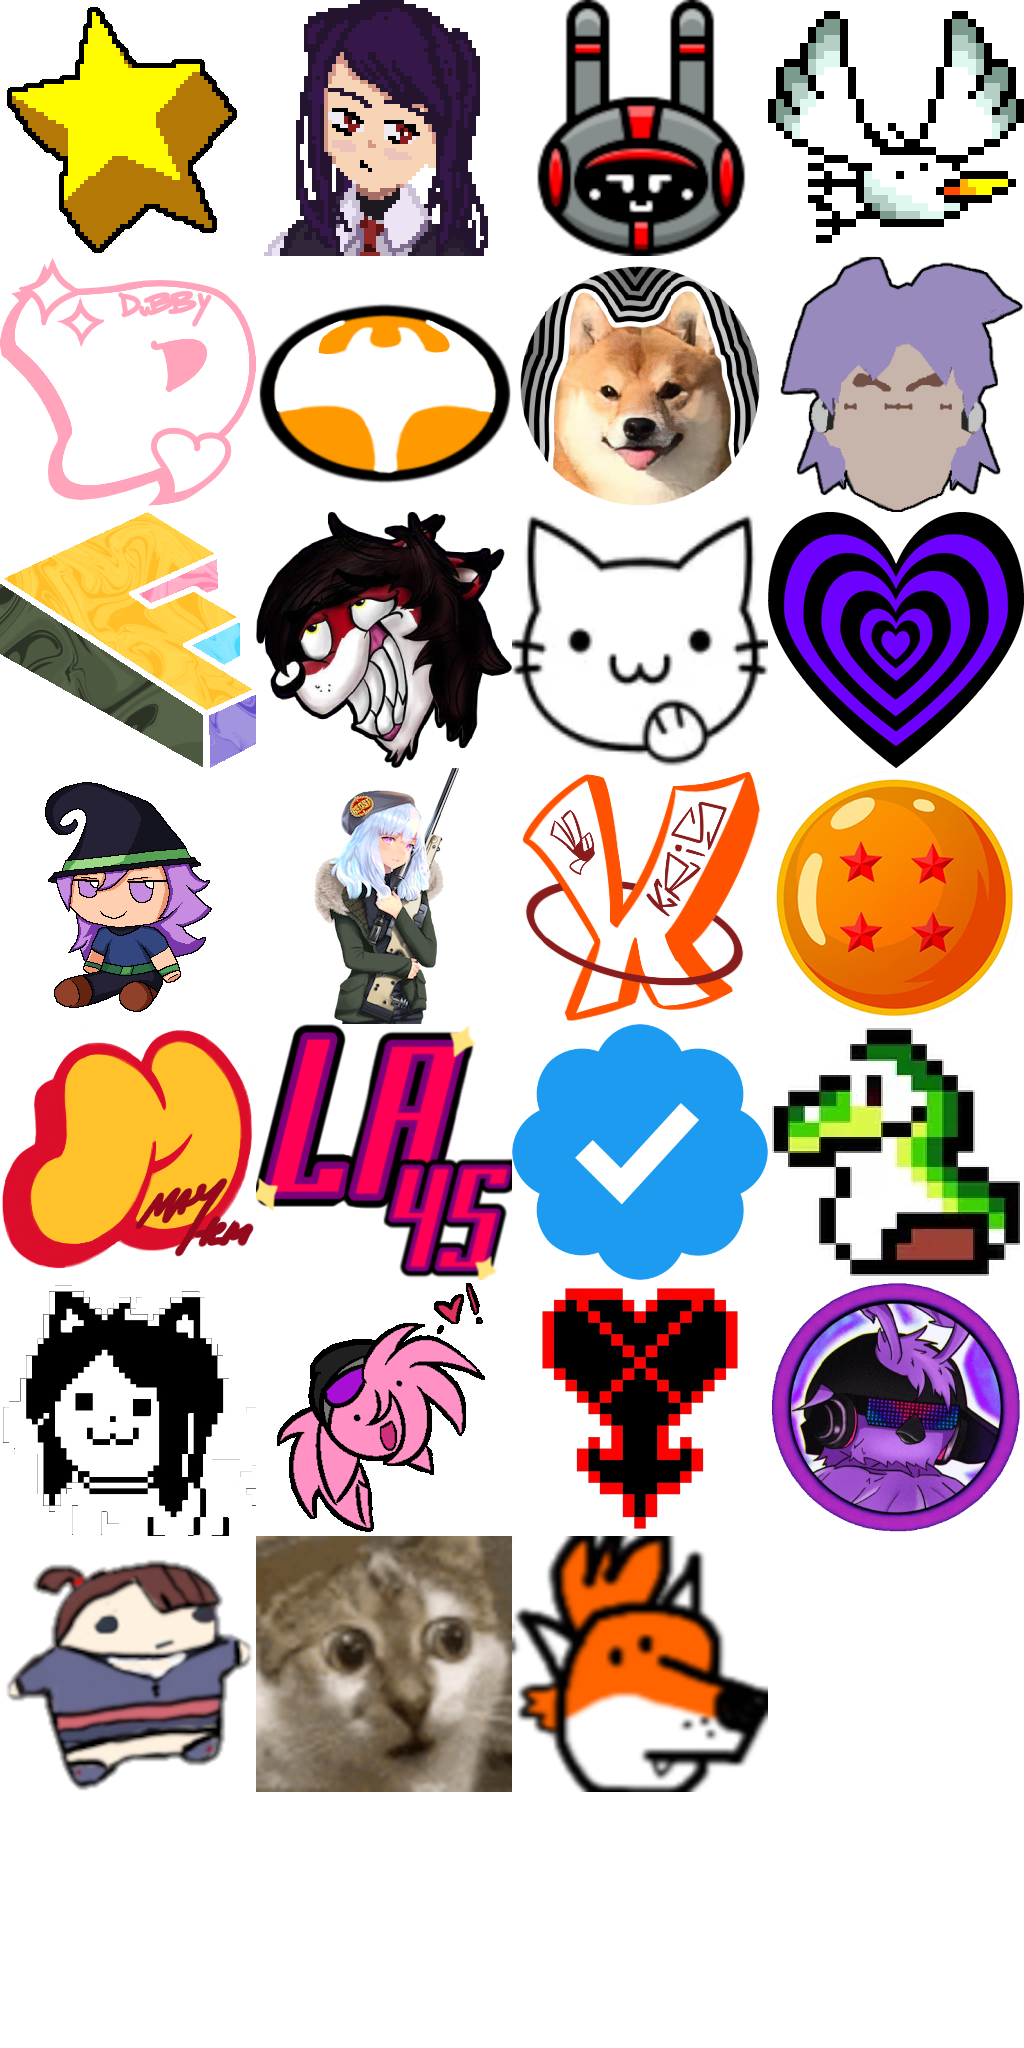
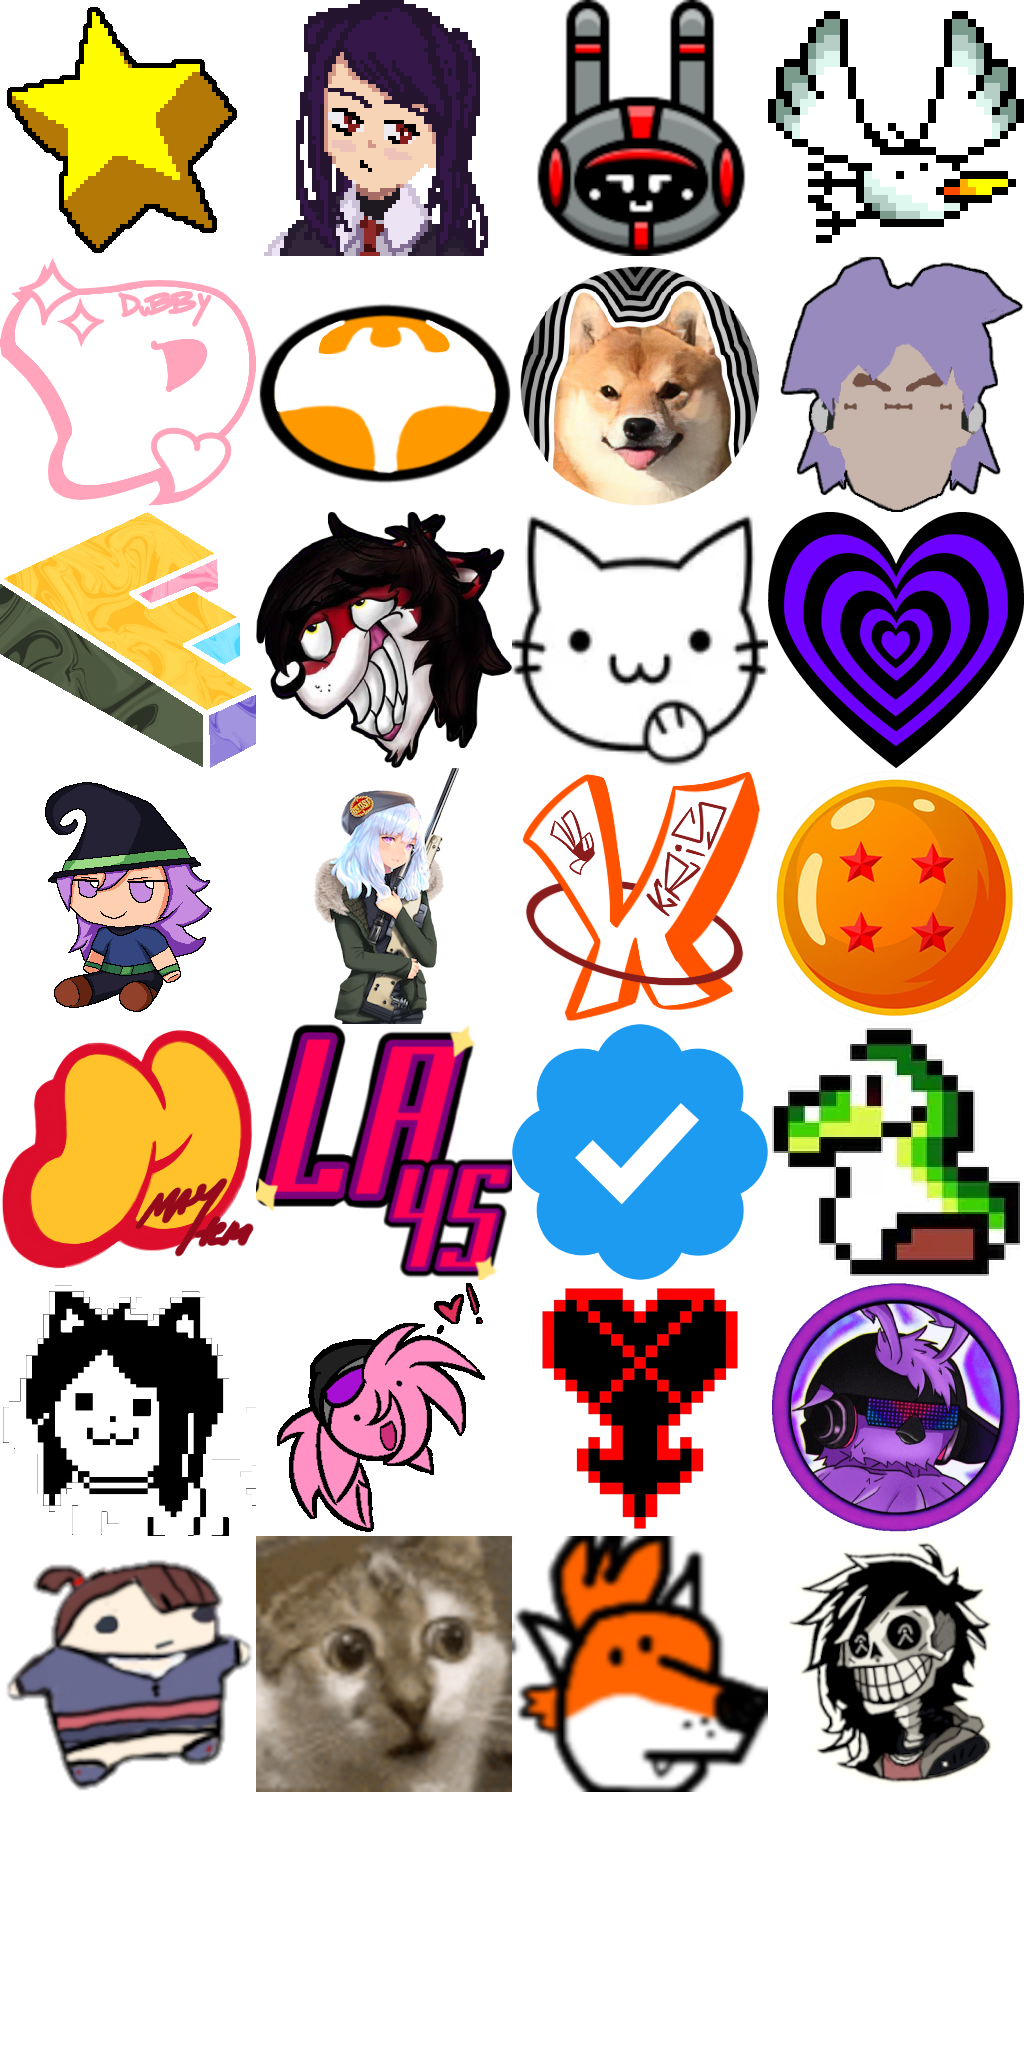
fix graffiti races, add kensupra badge

Changed region(s): [[0.7812, 0.75, 0.9688, 0.875]]

diff --git a/BombRushMP.Server/Gamemodes/GraffitiRace.cs b/BombRushMP.Server/Gamemodes/GraffitiRace.cs
@@ -55,6 +55,15 @@ namespace BombRushMP.Server.Gamemodes
         {
             switch (packetId)
             {
+                case Packets.ClientGraffitiRaceStart:
+                    {
+                        if (playerId == Lobby.LobbyState.HostId)
+                        {
+                            ServerLobbyManager.SendPacketToLobby(packet, IMessage.SendModes.Reliable, Lobby.LobbyState.Id, NetChannels.Gamemodes);
+                        }
+                    }
+                    break;
+
                 case Packets.ClientGraffitiRaceGSpots:
                     {
                         if (playerId == Lobby.LobbyState.HostId)

diff --git a/BombRushMP.Common/Packets/ClientGraffitiRaceStart.cs b/BombRushMP.Common/Packets/ClientGraffitiRaceStart.cs
@@ -30,7 +30,8 @@ namespace BombRushMP.Common.Packets
             var px = reader.ReadSingle();
             var py = reader.ReadSingle();
             var pz = reader.ReadSingle();
-            var spawnRotation = Quaternion.Normalize(Compression.ReadCompressedQuaternion(reader));
+            SpawnPosition = new Vector3(px, py, pz);
+            SpawnRotation = Quaternion.Normalize(Compression.ReadCompressedQuaternion(reader));
         }
 
         public override void Write(BinaryWriter writer)

diff --git a/BombRushMP.Common/Packets/ClientGraffitiRaceGSpots.cs b/BombRushMP.Common/Packets/ClientGraffitiRaceGSpots.cs
@@ -7,7 +7,7 @@ namespace BombRushMP.Common.Packets
     public class ClientGraffitiRaceGSpots : Packet
     {
         public override Packets PacketId => Packets.ClientGraffitiRaceGSpots;
-        public const int MaxGraffitiSpotsPerPacket = 5;
+        public const int MaxGraffitiSpotsPerPacket = 10;
         public List<int> GraffitiSpots = new();
         public bool FinalPacket = true;
 
